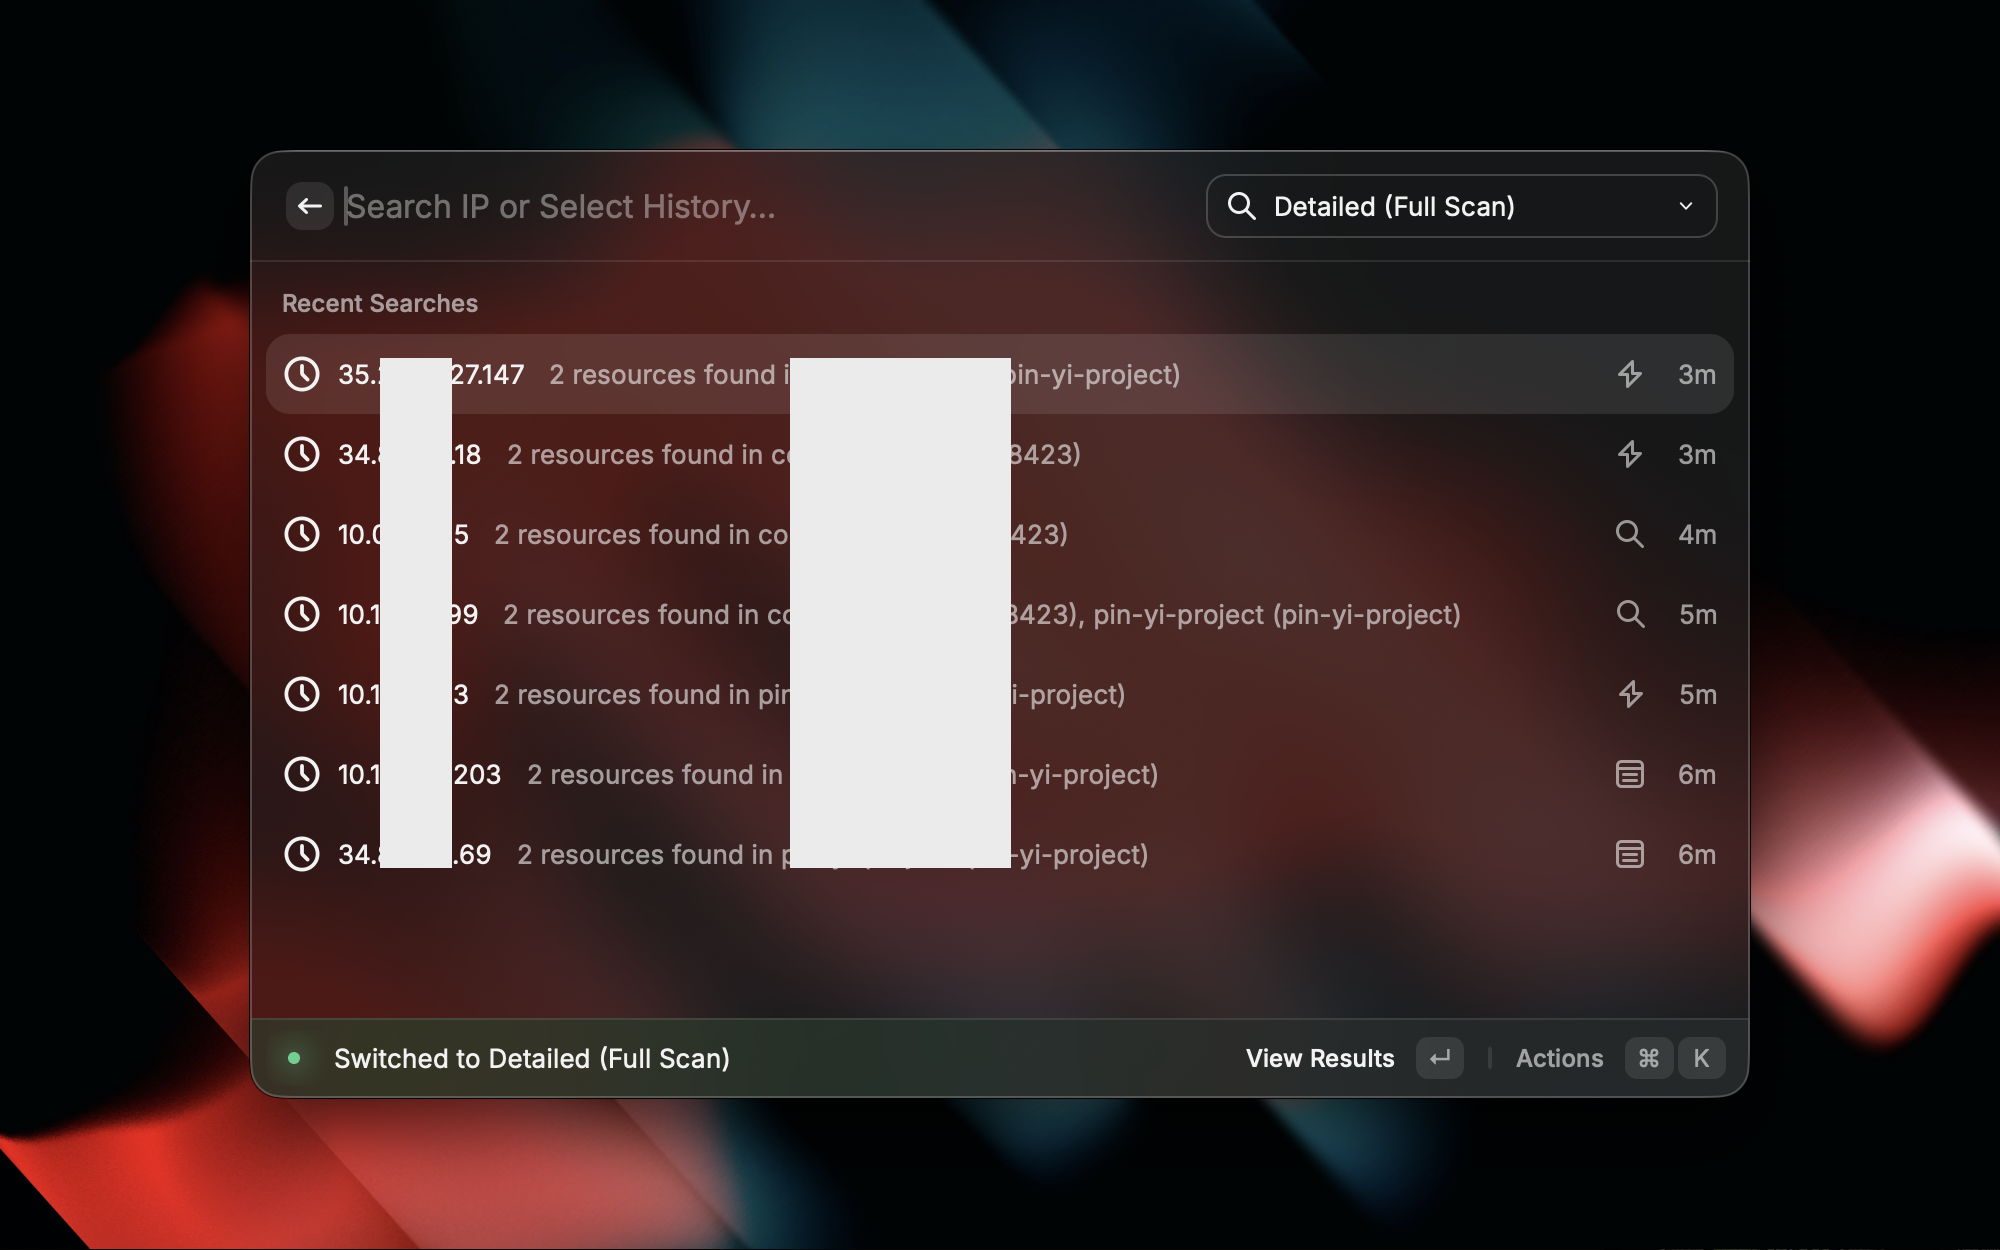
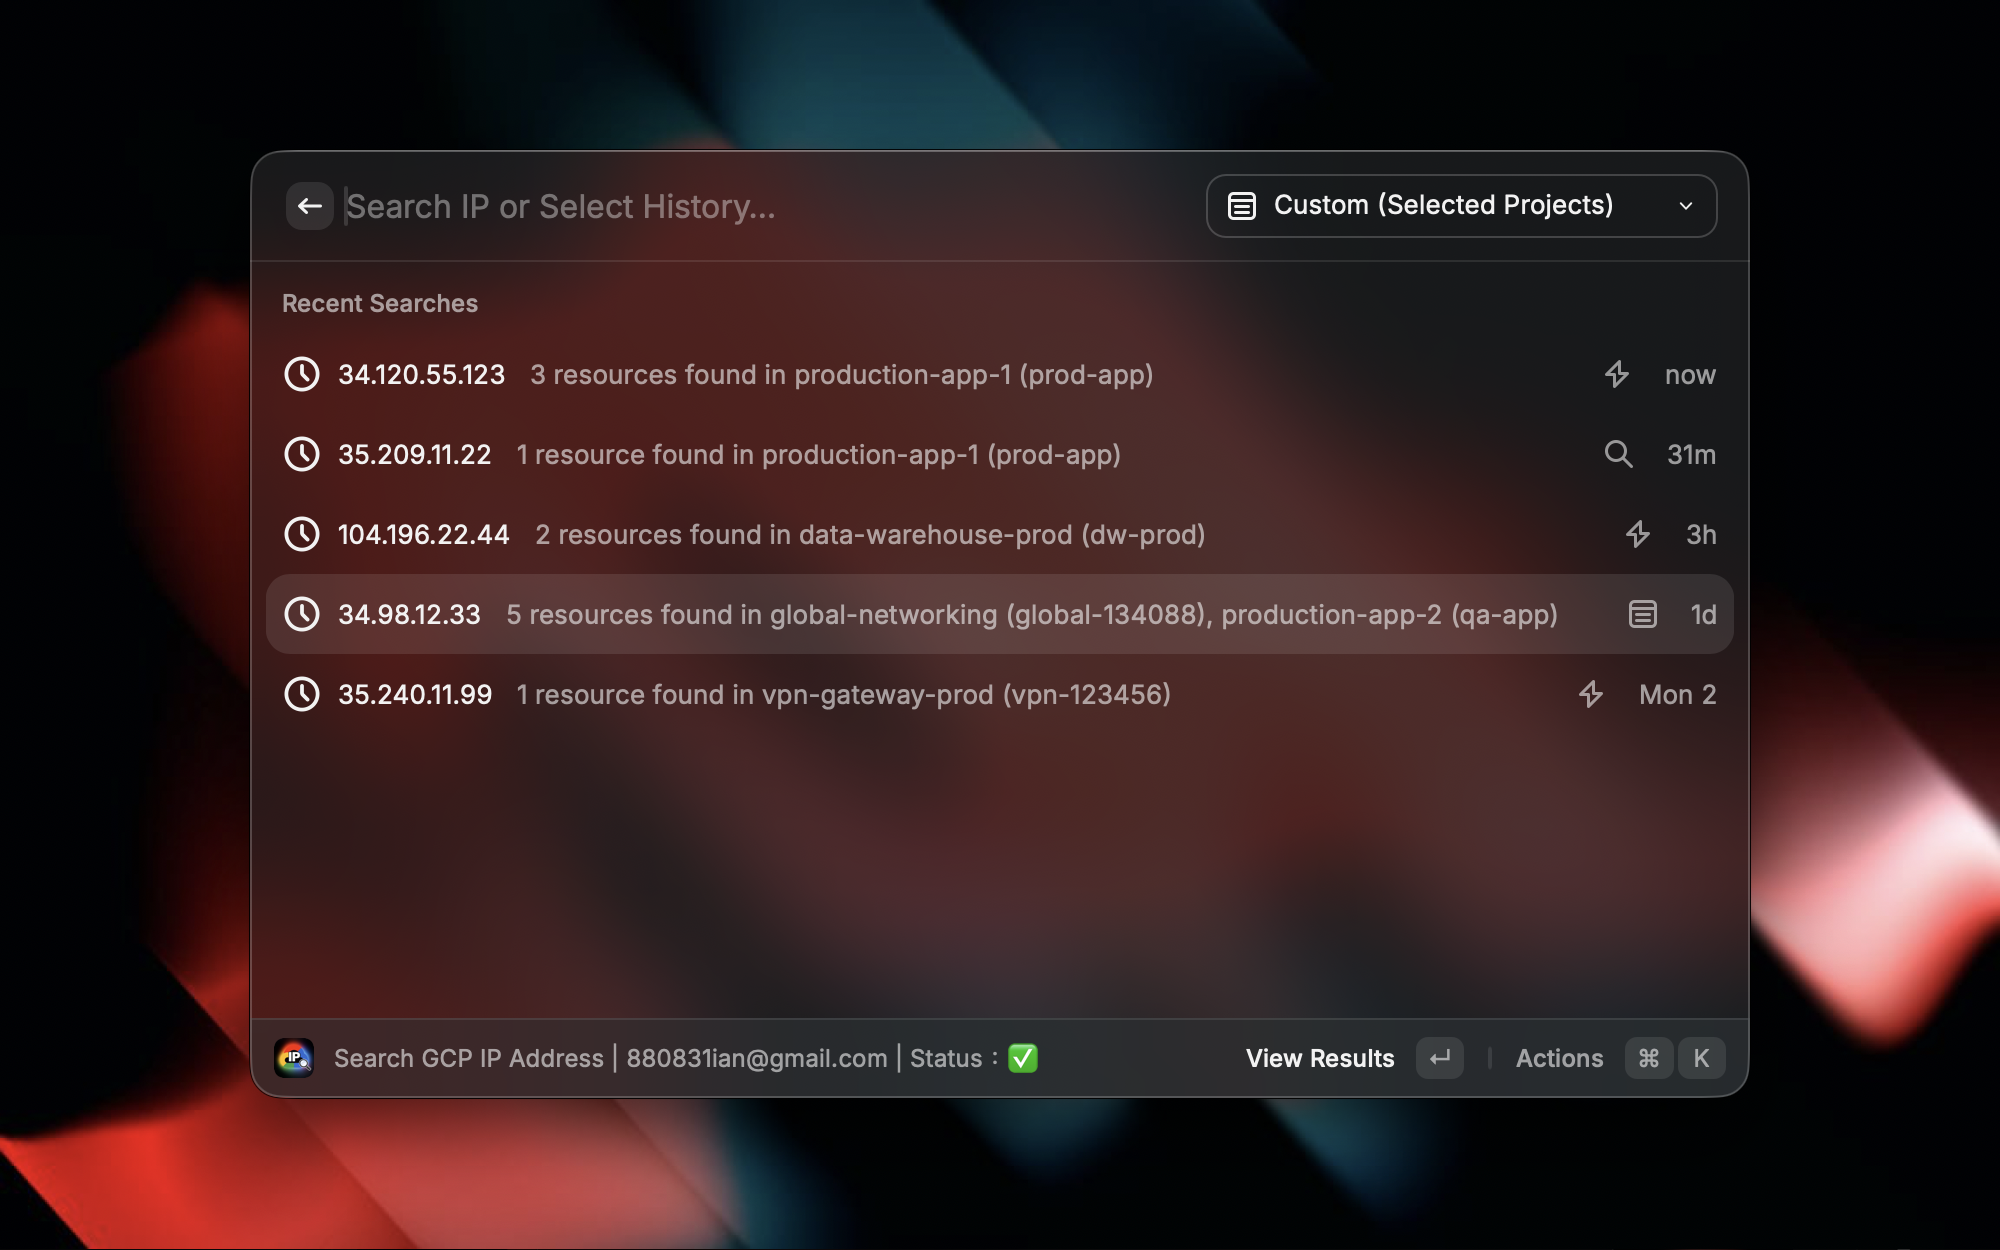
feat: use mock data & refactor list rendering logic

diff --git a/src/search-ip.tsx b/src/search-ip.tsx
@@ -15,6 +15,10 @@ import { SearchMode } from "./types";
 import { useSearchHistory } from "./hooks/useSearchHistory";
 import { CustomProjectsForm } from "./components/CustomProjectsForm";
 import { ResultsView } from "./components/ResultsView";
+import {
+  ConfigureProjectsAction,
+  SwitchModeAction,
+} from "./components/SearchActions";
 
 // IP validation helper function
 function isValidIP(ip: string): boolean {
@@ -207,35 +211,6 @@ function SearchCommand() {
   const isInitialLoading = isHistoryLoading;
   const showWelcome = !searchText && history.length === 0 && !isInitialLoading;
 
-  // Cycle search mode helper
-  const nextMode = (current: SearchMode): SearchMode => {
-    if (current === "quick") return "full";
-    if (current === "full") return "custom";
-    return "quick";
-  };
-
-  const getModeLabel = (mode: SearchMode) => {
-    switch (mode) {
-      case "quick":
-        return "Quick (First Match)";
-      case "full":
-        return "Detailed (Full Scan)";
-      case "custom":
-        return "Custom (Selected Projects)";
-      default:
-        return mode;
-    }
-  };
-
-  const cycleSearchMode = async () => {
-    const next = nextMode(searchMode);
-    await handleModeChange(next);
-    await showToast({
-      style: Toast.Style.Success,
-      title: `Switched to ${getModeLabel(next)}`,
-    });
-  };
-
   return (
     <List
       isLoading={isInitialLoading}
@@ -285,35 +260,14 @@ function SearchCommand() {
                   title="Start Search"
                   onAction={() => startSearch(searchText)}
                 />
-                <Action
-                  title={`Switch Mode to ${nextMode(searchMode) === "quick" ? "Quick" : nextMode(searchMode) === "full" ? "Detailed" : "Custom"}`}
-                  icon={Icon.ArrowRight}
-                  shortcut={{ modifiers: ["cmd"], key: "m" }}
-                  onAction={cycleSearchMode}
+                <SwitchModeAction
+                  currentMode={searchMode}
+                  onModeChange={handleModeChange}
                 />
                 {searchMode === "custom" && (
-                  <Action
-                    title="Configure Custom Projects"
-                    icon={Icon.Gear}
-                    shortcut={{ modifiers: ["cmd", "shift"], key: "p" }}
-                    onAction={() =>
-                      push(
-                        <CustomProjectsForm
-                          initialValue={customProjects}
-                          onSave={async (value) => {
-                            setCustomProjects(value);
-                            await LocalStorage.setItem(
-                              "custom-projects",
-                              value,
-                            );
-                            await showToast({
-                              style: Toast.Style.Success,
-                              title: "Configuration Saved",
-                            });
-                          }}
-                        />,
-                      )
-                    }
+                  <ConfigureProjectsAction
+                    customProjects={customProjects}
+                    onProjectsChange={setCustomProjects}
                   />
                 )}
               </ActionPanel>
@@ -384,35 +338,14 @@ function SearchCommand() {
                       onAction={() => removeFromHistory(item.ip)}
                       shortcut={{ modifiers: ["cmd"], key: "x" }}
                     />
-                    <Action
-                      title={`Switch Mode to ${nextMode(searchMode) === "quick" ? "Quick" : nextMode(searchMode) === "full" ? "Detailed" : "Custom"}`}
-                      icon={Icon.ArrowRight}
-                      shortcut={{ modifiers: ["cmd"], key: "m" }}
-                      onAction={cycleSearchMode}
+                    <SwitchModeAction
+                      currentMode={searchMode}
+                      onModeChange={handleModeChange}
                     />
                     {searchMode === "custom" && (
-                      <Action
-                        title="Configure Custom Projects"
-                        icon={Icon.Gear}
-                        shortcut={{ modifiers: ["cmd", "shift"], key: "p" }}
-                        onAction={() =>
-                          push(
-                            <CustomProjectsForm
-                              initialValue={customProjects}
-                              onSave={async (value) => {
-                                setCustomProjects(value);
-                                await LocalStorage.setItem(
-                                  "custom-projects",
-                                  value,
-                                );
-                                await showToast({
-                                  style: Toast.Style.Success,
-                                  title: "Configuration Saved",
-                                });
-                              }}
-                            />,
-                          )
-                        }
+                      <ConfigureProjectsAction
+                        customProjects={customProjects}
+                        onProjectsChange={setCustomProjects}
                       />
                     )}
                   </ActionPanel>
@@ -432,34 +365,13 @@ function SearchCommand() {
             <ActionPanel>
               {searchMode === "custom" ? (
                 <>
-                  <Action
-                    title="Configure Custom Projects"
-                    icon={Icon.Gear}
-                    shortcut={{ modifiers: ["cmd", "shift"], key: "p" }}
-                    onAction={() =>
-                      push(
-                        <CustomProjectsForm
-                          initialValue={customProjects}
-                          onSave={async (value) => {
-                            setCustomProjects(value);
-                            await LocalStorage.setItem(
-                              "custom-projects",
-                              value,
-                            );
-                            await showToast({
-                              style: Toast.Style.Success,
-                              title: "Configuration Saved",
-                            });
-                          }}
-                        />,
-                      )
-                    }
+                  <ConfigureProjectsAction
+                    customProjects={customProjects}
+                    onProjectsChange={setCustomProjects}
                   />
-                  <Action
-                    title={`Switch Mode to ${nextMode(searchMode) === "quick" ? "Quick" : nextMode(searchMode) === "full" ? "Detailed" : "Custom"}`}
-                    icon={Icon.ArrowRight}
-                    shortcut={{ modifiers: ["cmd"], key: "m" }}
-                    onAction={cycleSearchMode}
+                  <SwitchModeAction
+                    currentMode={searchMode}
+                    onModeChange={handleModeChange}
                   />
                 </>
               ) : (
@@ -469,11 +381,9 @@ function SearchCommand() {
                     icon={Icon.MagnifyingGlass}
                     onAction={() => {}}
                   />
-                  <Action
-                    title={`Switch Mode to ${nextMode(searchMode) === "quick" ? "Quick" : nextMode(searchMode) === "full" ? "Detailed" : "Custom"}`}
-                    icon={Icon.ArrowRight}
-                    shortcut={{ modifiers: ["cmd"], key: "m" }}
-                    onAction={cycleSearchMode}
+                  <SwitchModeAction
+                    currentMode={searchMode}
+                    onModeChange={handleModeChange}
                   />
                 </>
               )}

diff --git a/src/components/SearchActions.tsx b/src/components/SearchActions.tsx
@@ -1,0 +1,94 @@
+import {
+  Action,
+  showToast,
+  Toast,
+  Icon,
+  LocalStorage,
+  useNavigation,
+} from "@raycast/api";
+import { SearchMode } from "../types";
+import { CustomProjectsForm } from "./CustomProjectsForm";
+
+interface ConfigureProjectsActionProps {
+  customProjects: string;
+  onProjectsChange: (value: string) => void;
+}
+
+export function ConfigureProjectsAction({
+  customProjects,
+  onProjectsChange,
+}: ConfigureProjectsActionProps) {
+  const { push } = useNavigation();
+
+  return (
+    <Action
+      title="Configure Custom Projects"
+      icon={Icon.Gear}
+      shortcut={{ modifiers: ["cmd", "shift"], key: "p" }}
+      onAction={() =>
+        push(
+          <CustomProjectsForm
+            initialValue={customProjects}
+            onSave={async (value) => {
+              onProjectsChange(value);
+              await LocalStorage.setItem("custom-projects", value);
+              await showToast({
+                style: Toast.Style.Success,
+                title: "Configuration Saved",
+              });
+            }}
+          />,
+        )
+      }
+    />
+  );
+}
+
+interface SwitchModeActionProps {
+  currentMode: SearchMode;
+  onModeChange: (mode: SearchMode) => Promise<void>;
+}
+
+export function SwitchModeAction({
+  currentMode,
+  onModeChange,
+}: SwitchModeActionProps) {
+  const nextMode = (current: SearchMode): SearchMode => {
+    if (current === "quick") return "full";
+    if (current === "full") return "custom";
+    return "quick";
+  };
+
+  const getModeLabel = (mode: SearchMode) => {
+    switch (mode) {
+      case "quick":
+        return "Quick";
+      case "full":
+        return "Detailed";
+      case "custom":
+        return "Custom";
+      default:
+        return mode;
+    }
+  };
+
+  const cycleSearchMode = async () => {
+    const next = nextMode(currentMode);
+    await onModeChange(next);
+    await showToast({
+      style: Toast.Style.Success,
+      title: `Switched to ${getModeLabel(next)} mode`,
+    });
+  };
+
+  const nextModeLabel = getModeLabel(nextMode(currentMode));
+
+  return (
+    <Action
+      title={`Switch Mode to ${nextModeLabel}`}
+      icon={Icon.ArrowRight}
+      shortcut={{ modifiers: ["cmd"], key: "m" }}
+      onAction={cycleSearchMode}
+    />
+  );
+}
